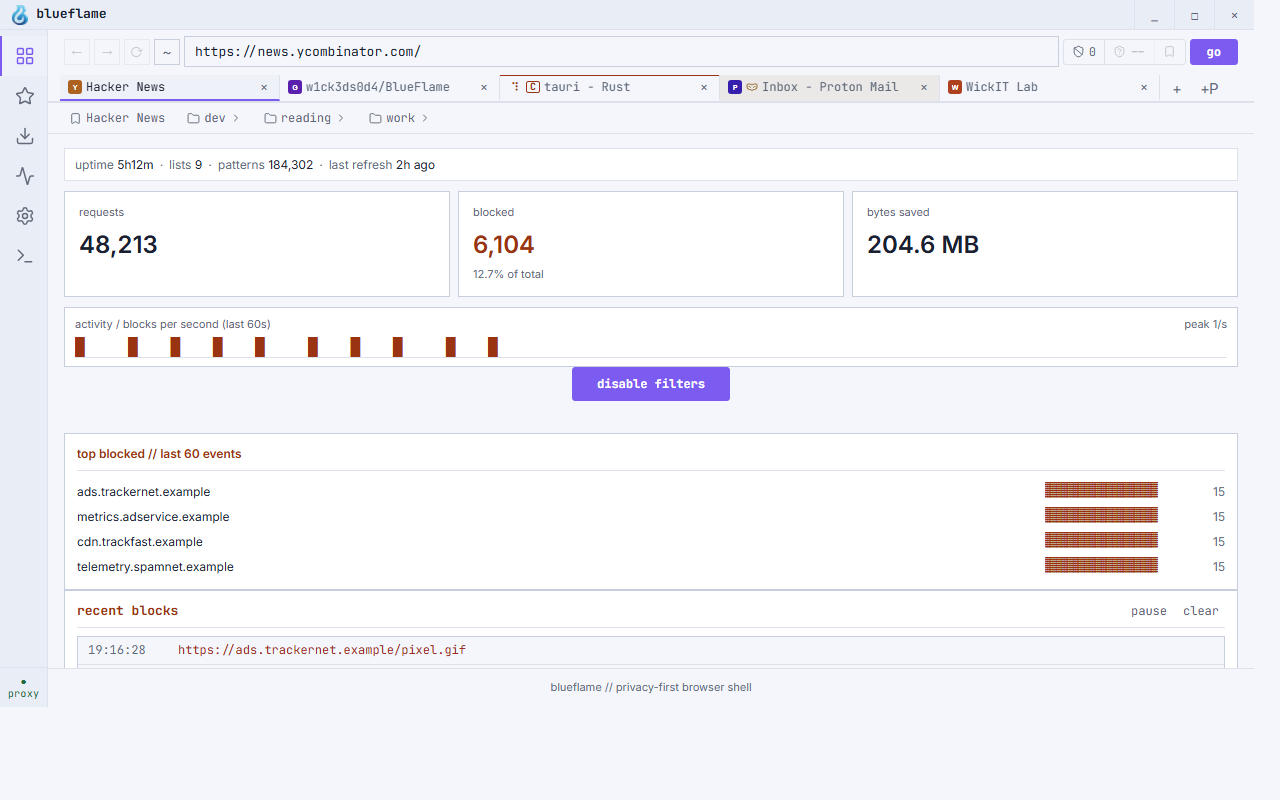
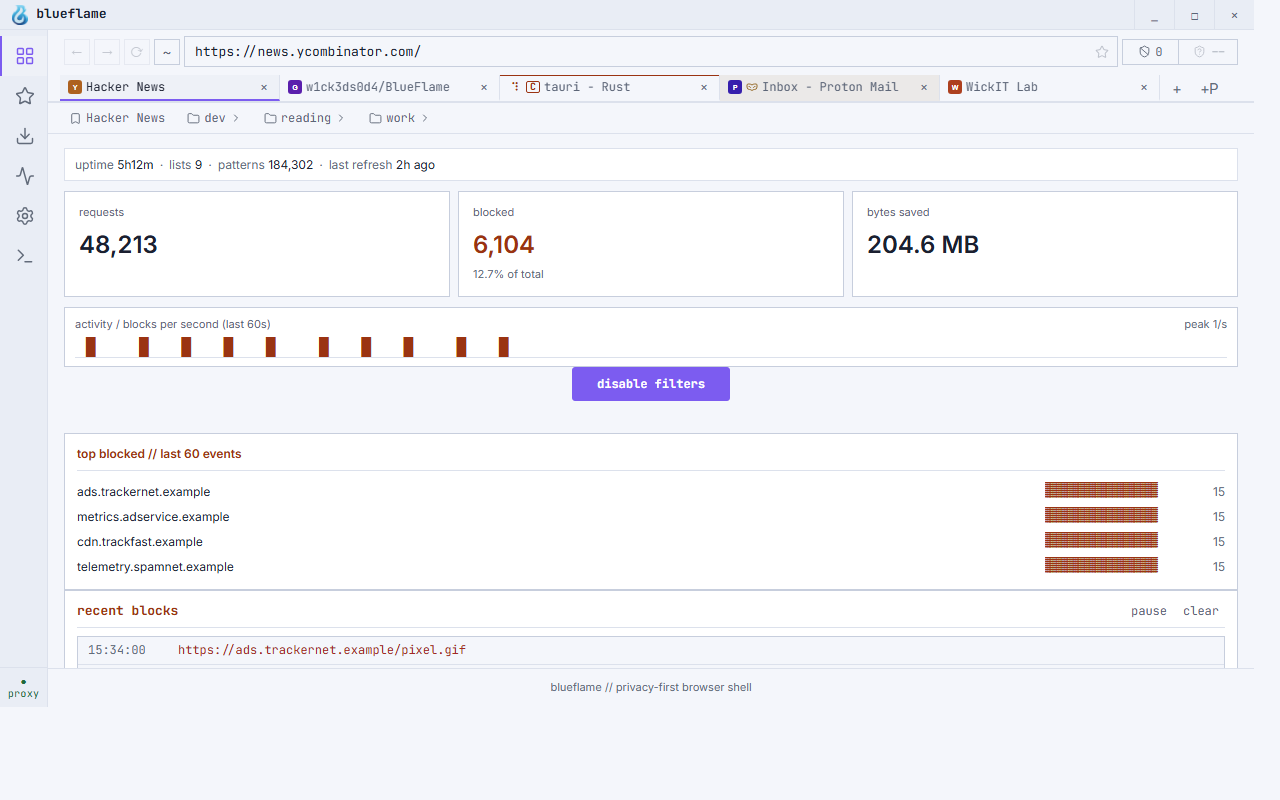
(feat) symmetrical toolbar with the bookmark star in the address bar (#119)

Changed region(s): [[0.0625, 0.4062, 0.4062, 0.4688], [0.9062, 0.0312, 0.9688, 0.0938], [0.8438, 0.0625, 0.875, 0.0938]]

diff --git a/src/App.css b/src/App.css
@@ -395,42 +395,61 @@ button {
   border-bottom: 1px solid var(--border);
 }
 
+/* One dimension backs every square control in this row (nav icons, the
+   status chips, the star): centralised here instead of repeating the
+   literal in each rule below, so the two side clusters can derive an
+   outer width from it rather than each guessing one. */
 .url-bar-row {
+  --toolbar-control-size: 26px;
+  --toolbar-cluster-width: calc(4 * var(--toolbar-control-size) + 3 * var(--space-2));
   display: grid;
-  /* back, forward, reload, home, url-wrap, status-group, go. */
-  grid-template-columns: auto auto auto auto 1fr auto auto;
+  /* nav cluster, url-wrap, status cluster. Both clusters share
+     --toolbar-cluster-width so the field is exactly centered between
+     them at any row width. */
+  grid-template-columns: var(--toolbar-cluster-width) 1fr var(--toolbar-cluster-width);
   gap: 4px;
   align-items: center;
   padding: 6px 16px 8px;
   position: relative;
 }
 
-/* One calm group for the three site-status chips (blocks, trust score,
-   bookmark), read as a single unit at one height instead of three
-   disconnected boxes. Neutral by default; the status map below
-   (STATUS_TONE in UrlBar.tsx, .status-tone-* here) is the only place a
-   chip is allowed to pick up colour, and only for a real warning or
-   danger finding, never for a normal or positive result. */
-.status-group {
-  height: 26px;
-  display: inline-flex;
-  align-items: stretch;
+.nav-cluster-left,
+.nav-cluster-right {
+  height: var(--toolbar-control-size);
+  display: flex;
+  align-items: center;
   align-self: center;
-  border: 1px solid var(--border-default);
-  border-radius: var(--radius-xs);
+  gap: var(--space-2);
+}
+
+.nav-cluster-left {
+  justify-content: flex-start;
+}
+
+/* The site-status cluster (tracker count, site trust) mirrors the nav
+   cluster it sits opposite: same control height, same outer width, and
+   the nav cluster's own border weight and square corners rather than
+   the softer pill treatment a lone status chip would otherwise get.
+   Neutral by default; the status map below (STATUS_TONE in UrlBar.tsx,
+   .status-tone-* here) is the only place a chip is allowed to pick up
+   colour, and only for a real warning or danger finding, never for a
+   normal or positive result. */
+.nav-cluster-right {
+  justify-content: flex-end;
+  border: 1px solid var(--border-strong);
+  border-radius: 0;
   overflow: hidden;
 }
 
-.status-group > .block-counter,
-.status-group > .url-trust {
+.nav-cluster-right > .block-counter,
+.nav-cluster-right > .url-trust {
+  flex: 1;
   border: none;
-  border-right: 1px solid var(--border-default);
   border-radius: 0;
 }
 
-.status-group > .url-star {
-  border: none;
-  border-radius: 0;
+.nav-cluster-right > .block-counter {
+  border-right: 1px solid var(--border-strong);
 }
 
 .url-trust,
@@ -459,6 +478,23 @@ button {
 
 .url-star {
   min-width: 30px;
+}
+
+/* The star now lives inside the address field instead of the status
+   cluster: absolutely positioned over the field's right end so it adds
+   no height of its own (the field, not this button, still sets the
+   row's height), sized to the WCAG 2.2 2.5.8 minimum 24x24 CSS px
+   target even though its glyph is smaller. */
+.url-star-in-field {
+  position: absolute;
+  top: 50%;
+  right: var(--space-2);
+  transform: translateY(-50%);
+  width: 24px;
+  height: 24px;
+  min-width: 0;
+  padding: 0;
+  border-radius: var(--radius-xs);
 }
 
 .url-trust:hover:not(:disabled),
@@ -720,6 +756,8 @@ button {
 
 .url-input-wrap .url-input {
   width: 100%;
+  /* Room for the star button docked at the field's right end. */
+  padding-right: calc(var(--space-2) + 24px + var(--space-2));
 }
 
 .nav-icon {
@@ -844,33 +882,6 @@ button {
   text-overflow: ellipsis;
   white-space: nowrap;
   text-align: right;
-}
-
-.nav-primary {
-  /* An action button: stays on the system's action colour, never the
-     flame accent, per the design system's rule that the flame marks
-     the brand while indigo marks every button, link and focus ring. */
-  height: 26px;
-  padding: 0 var(--space-6);
-  display: inline-flex;
-  align-items: center;
-  justify-content: center;
-  line-height: 1;
-  align-self: center;
-  background: var(--action-primary);
-  color: var(--wk-on-brand);
-  border: 1px solid var(--action-primary);
-  border-radius: var(--radius-xs);
-  font-family: var(--mono);
-  font-weight: 700;
-  font-size: 12px;
-  cursor: pointer;
-  transition: background 120ms ease, color 120ms ease;
-}
-
-.nav-primary:hover {
-  background: var(--action-primary-hover);
-  border-color: var(--action-primary-hover);
 }
 
 .url-error {
@@ -2199,7 +2210,9 @@ button {
 }
 
 .primary {
-  /* Action colour, not the flame accent; see .nav-primary above. */
+  /* Action colour, not the flame accent; every button, link and focus
+     ring keeps to the system's one action colour, per the flame's own
+     rule reserving the accent for the brand mark. */
   padding: var(--space-4) var(--space-8);
   background: var(--action-primary);
   color: var(--wk-on-brand);

diff --git a/src/components/UrlBar.tsx b/src/components/UrlBar.tsx
@@ -1,13 +1,12 @@
 import type { ComponentType } from 'react';
 import { useEffect, useRef, useState } from 'react';
 import {
-  Bookmark,
-  BookmarkCheck,
   ShieldAlert,
   ShieldBan,
   ShieldCheck,
   ShieldQuestion,
   ShieldX,
+  Star,
 } from 'lucide-react';
 import { invoke } from '@tauri-apps/api/core';
 import type { TrustAssessment, TrustLabel } from './TrustPopup';
@@ -331,40 +330,41 @@ export function UrlBar({
   const trustLabel = trust ? trust.label : 'idle';
   const trustTone = TRUST_TONE[trustLabel];
   const TrustIcon = TRUST_ICON[trustLabel];
-  const BookmarkIcon = bookmarked ? BookmarkCheck : Bookmark;
 
   return (
     <div className="url-bar-row" role="toolbar" aria-label="Browser chrome">
-      <button
-        className="nav-icon"
-        onClick={goBack}
-        disabled={!browsing}
-        title="back"
-        aria-label="back"
-      >
-        ←
-      </button>
-      <button
-        className="nav-icon"
-        onClick={goForward}
-        disabled={!browsing}
-        title="forward"
-        aria-label="forward"
-      >
-        →
-      </button>
-      <button
-        className="nav-icon"
-        onClick={reload}
-        disabled={!browsing}
-        title="reload"
-        aria-label="reload"
-      >
-        ⟳
-      </button>
-      <button className="nav-icon" onClick={home} title="home" aria-label="home">
-        ~
-      </button>
+      <div className="nav-cluster-left" role="group" aria-label="navigation">
+        <button
+          className="nav-icon"
+          onClick={goBack}
+          disabled={!browsing}
+          title="back"
+          aria-label="back"
+        >
+          ←
+        </button>
+        <button
+          className="nav-icon"
+          onClick={goForward}
+          disabled={!browsing}
+          title="forward"
+          aria-label="forward"
+        >
+          →
+        </button>
+        <button
+          className="nav-icon"
+          onClick={reload}
+          disabled={!browsing}
+          title="reload"
+          aria-label="reload"
+        >
+          ⟳
+        </button>
+        <button className="nav-icon" onClick={home} title="home" aria-label="home">
+          ~
+        </button>
+      </div>
 
       <div className="url-input-wrap" ref={containerRef}>
         <input
@@ -398,6 +398,16 @@ export function UrlBar({
             <span className="ascii-cursor blinking">_</span>
           </span>
         )}
+        <button
+          className={`url-star url-star-in-field ${bookmarked ? 'status-tone-active' : ''}`}
+          onClick={toggleBookmark}
+          disabled={!bookmarkable}
+          title={bookmarked ? 'remove bookmark' : 'add bookmark'}
+          aria-label={bookmarked ? 'remove bookmark' : 'add bookmark'}
+          aria-pressed={bookmarked}
+        >
+          <Star aria-hidden size={14} strokeWidth={1.75} fill={bookmarked ? 'currentColor' : 'none'} />
+        </button>
         {open && suggestions.length > 0 && (
           <ul
             id="url-suggest-list"
@@ -429,7 +439,7 @@ export function UrlBar({
         )}
       </div>
 
-      <div className="status-group" role="group" aria-label="site status">
+      <div className="nav-cluster-right" role="group" aria-label="site status">
         <span
           className={`block-counter ${blocksForHost > 0 ? 'block-counter-on' : 'block-counter-off'}`}
           title={
@@ -467,22 +477,7 @@ export function UrlBar({
           <TrustIcon aria-hidden size={13} strokeWidth={1.75} />
           <span>{trust ? trust.score : '--'}</span>
         </button>
-
-        <button
-          className={`url-star ${bookmarked ? 'status-tone-active' : ''}`}
-          onClick={toggleBookmark}
-          disabled={!bookmarkable}
-          title={bookmarked ? 'remove bookmark' : 'add bookmark'}
-          aria-label={bookmarked ? 'remove bookmark' : 'add bookmark'}
-          aria-pressed={bookmarked}
-        >
-          <BookmarkIcon aria-hidden size={13} strokeWidth={1.75} />
-        </button>
       </div>
-
-      <button className="nav-primary" onClick={submit}>
-        go
-      </button>
 
       {error && (
         <div className="url-error" role="alert">
